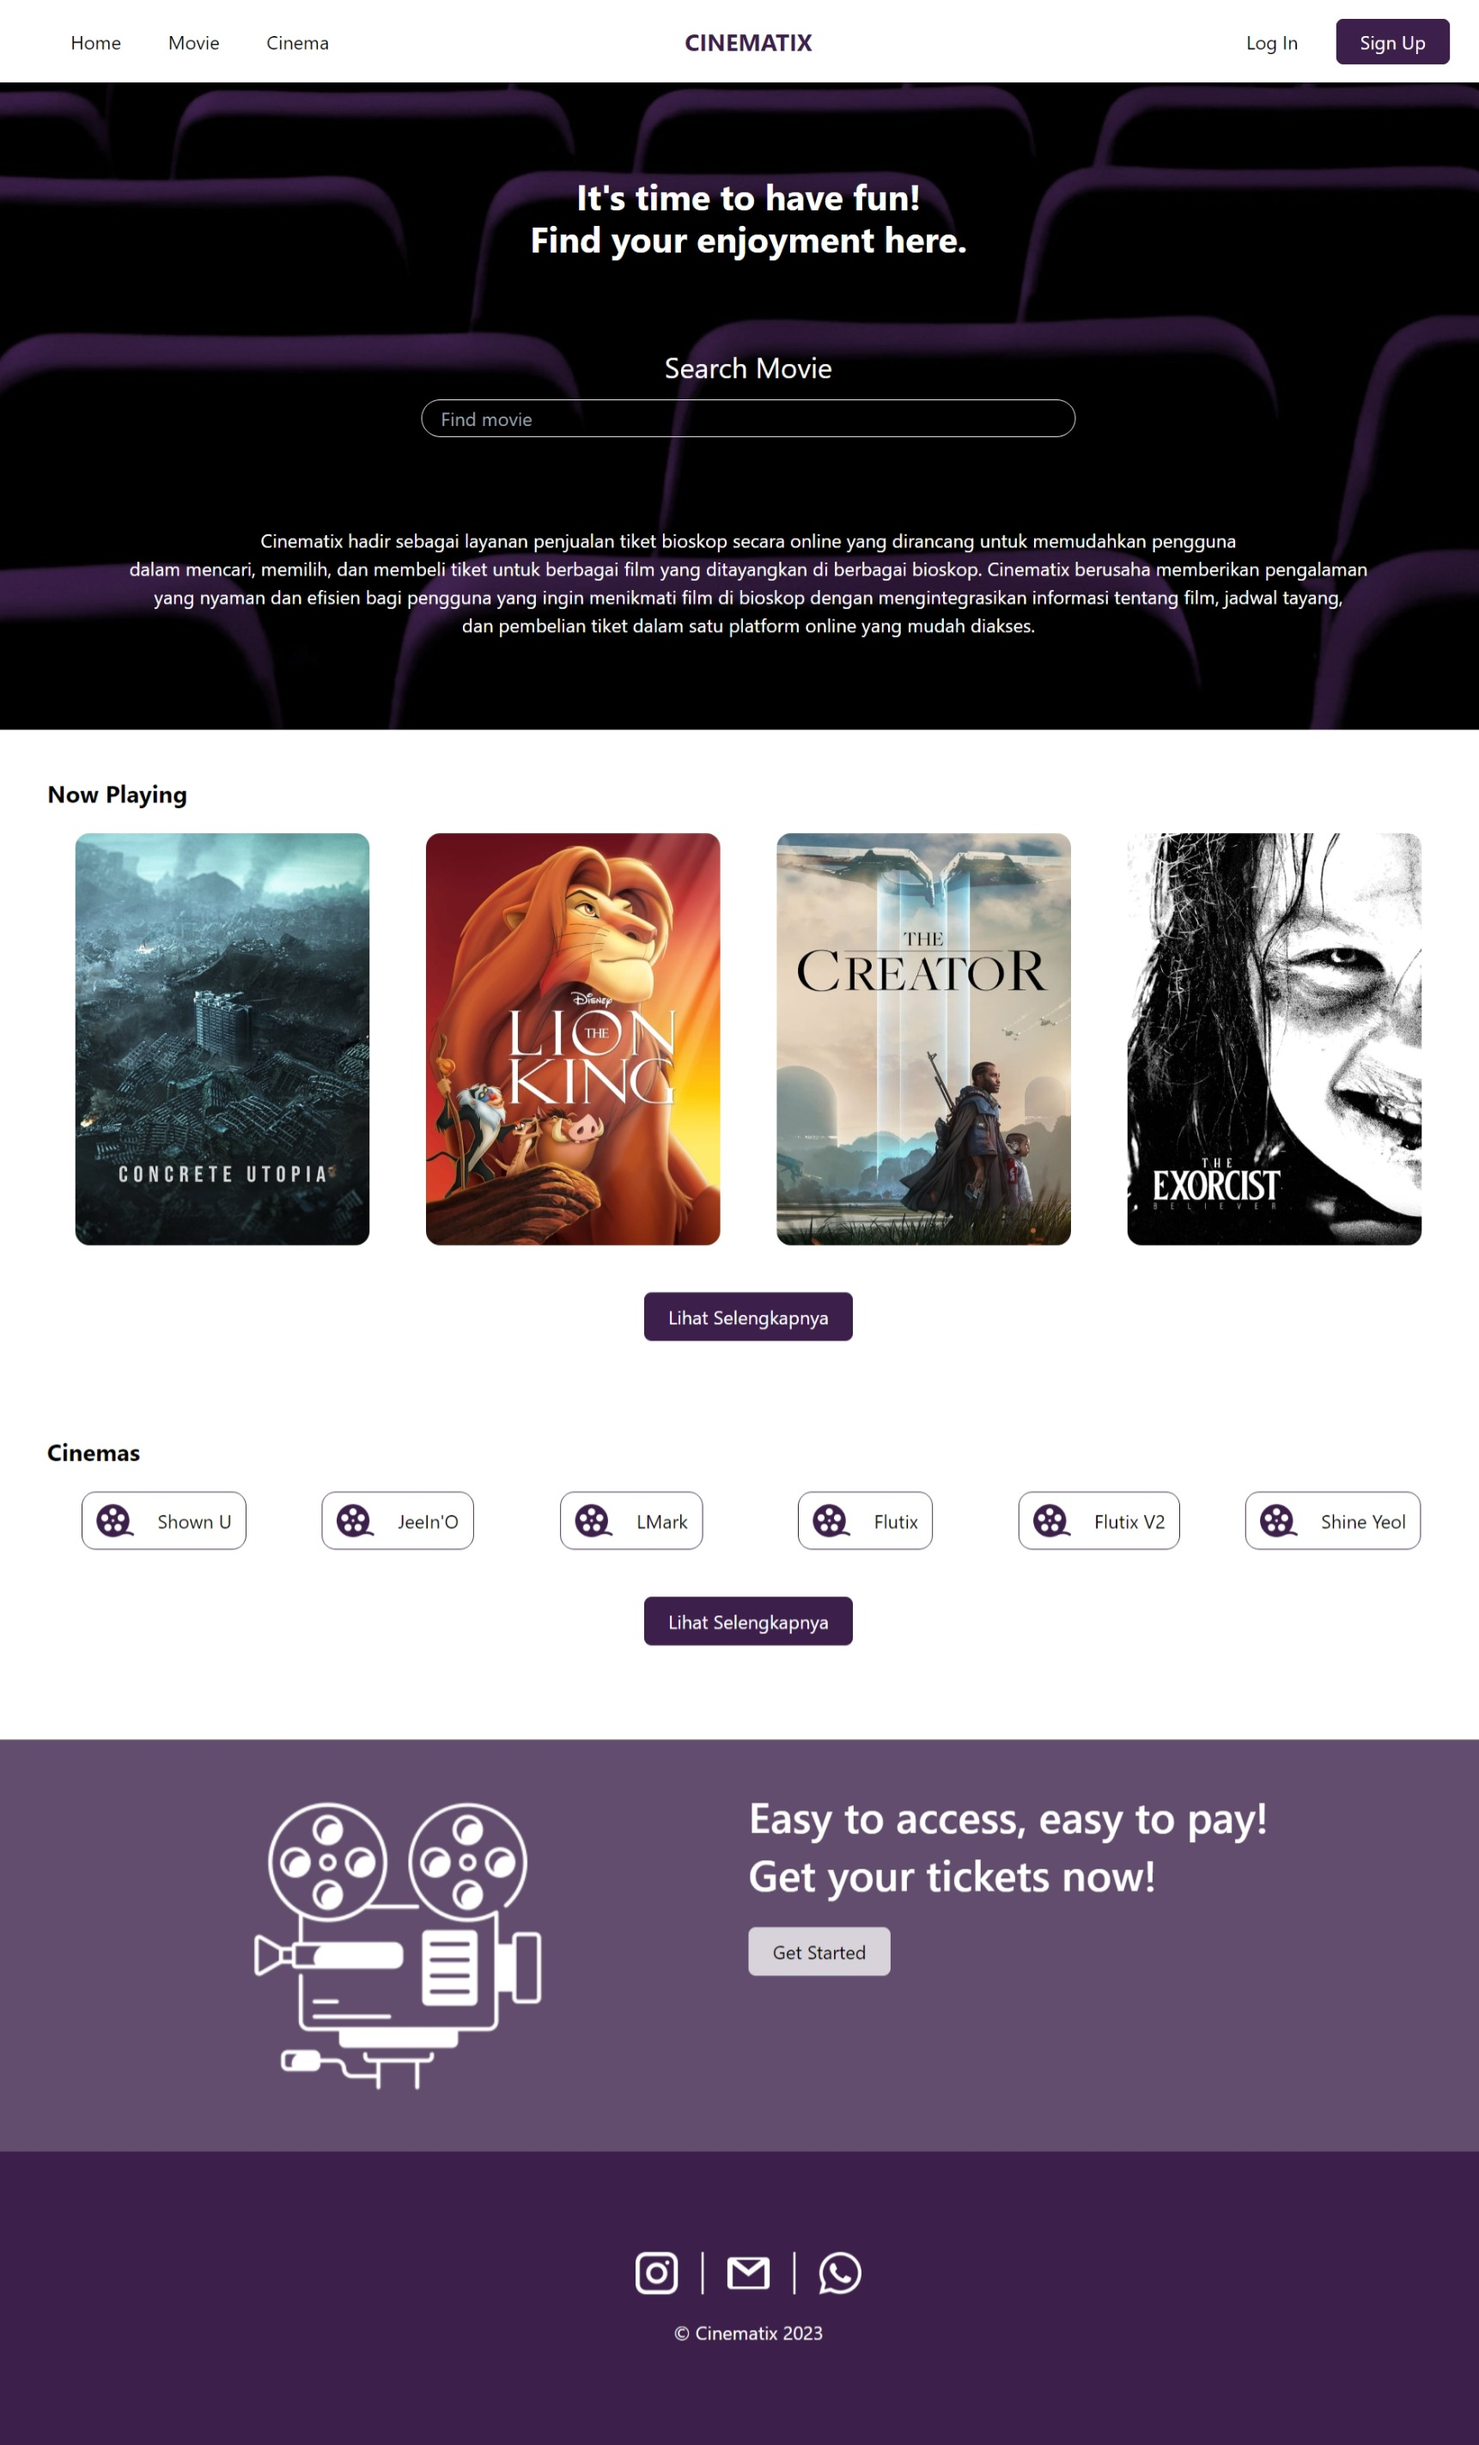
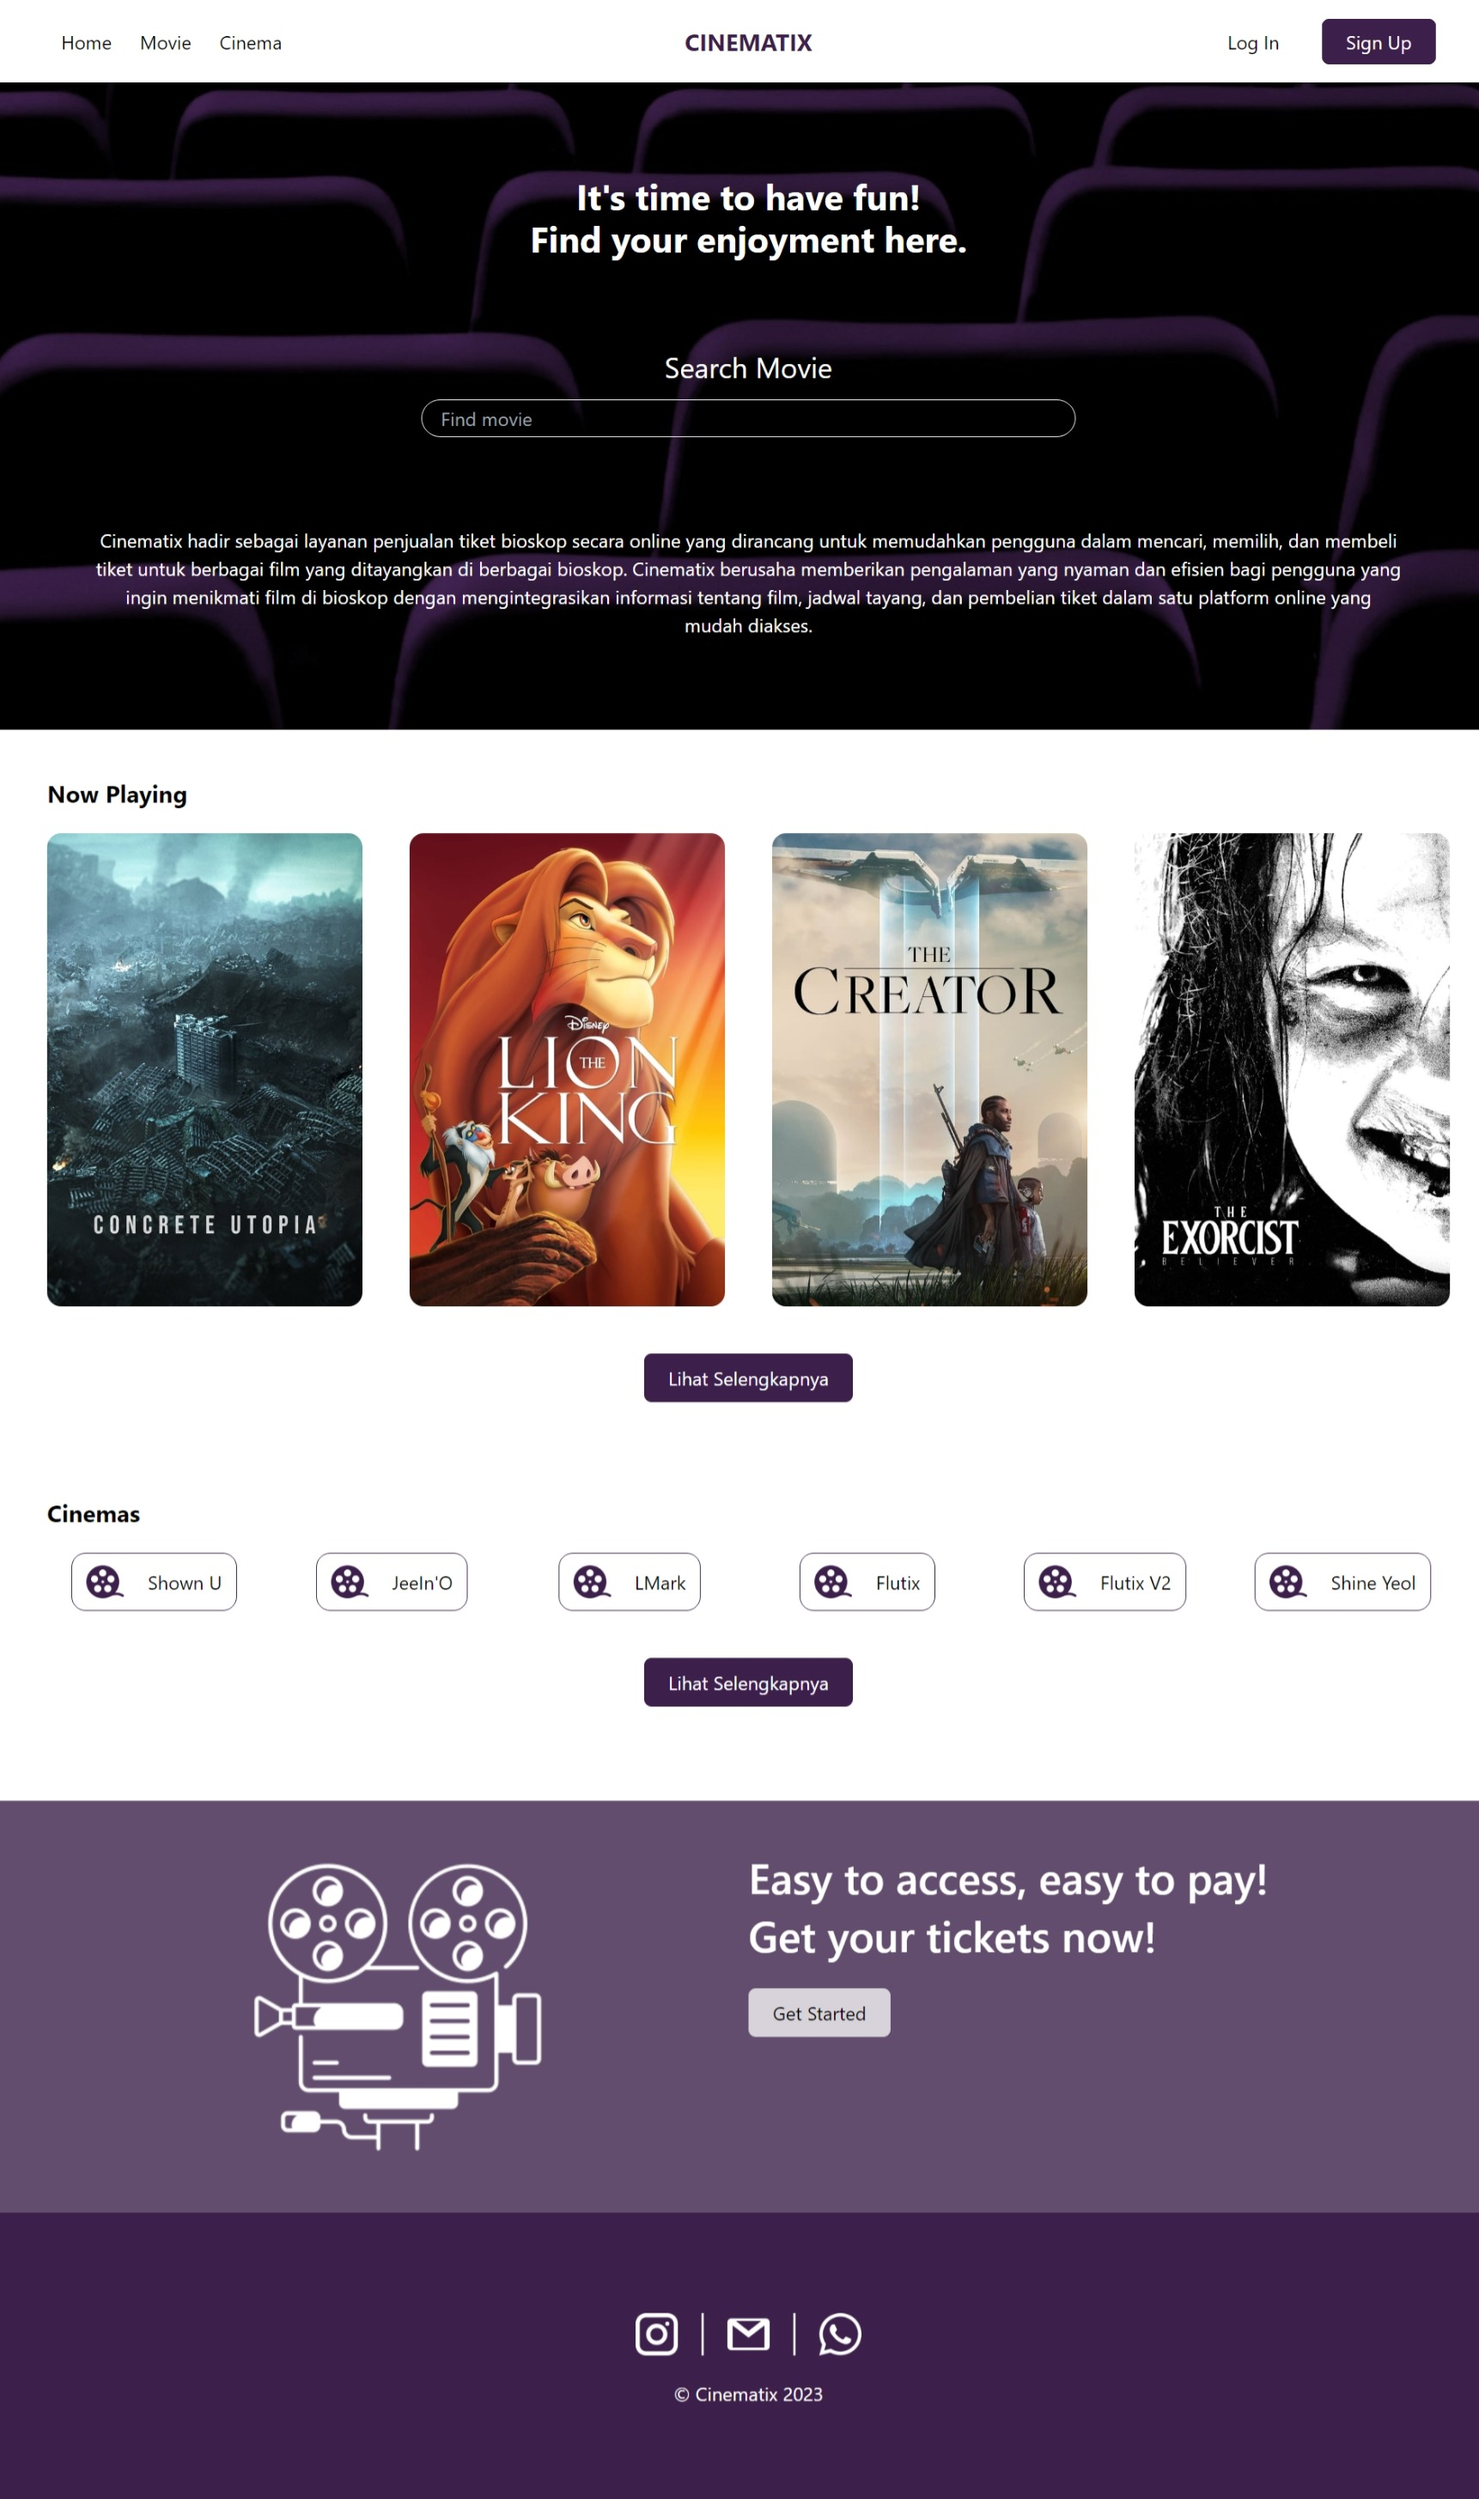
set responsive

diff --git a/resources/views/components/navbar.blade.php b/resources/views/components/navbar.blade.php
@@ -1,19 +1,19 @@
     <nav class="bg-white flex h-[70px] sticky top-0 z-10">
 
-        <ul class="basis-1/4 ps-10 flex items-center">
-            <li class="px-5 py-2 hover:text-tuna hover:font-bold"><a href="#">Home</a></li>
-            <li class="px-5 py-2 hover:text-tuna hover:font-bold"><a href="#">Movie</a></li>
-            <li class="px-5 py-2 hover:text-tuna hover:font-bold"><a href="#">Cinema</a></li>
+        <ul class="lg:w-[25%] sm:w-[40%] ps-10 flex items-center">
+            <li class="px-3 py-2 hover:text-tuna hover:font-bold"><a href="#">Home</a></li>
+            <li class="px-3 py-2 hover:text-tuna hover:font-bold"><a href="#">Movie</a></li>
+            <li class="px-3 py-2 hover:text-tuna hover:font-bold"><a href="#">Cinema</a></li>
         </ul>
 
-        <div class="basis-1/2 flex justify-center items-center col-span-4 text-xl font-bold text-tuna">
+        <div class="lg:w-[50%] sm:w-[20%] flex justify-center items-center col-span-4 text-xl font-bold text-tuna">
             <p><a href="#">CINEMATIX</a></p>
 
         </div>
 
-        <ul class="basis-1/4 pe-10 flex justify-end items-center">
-            <li class="px-5 py-2 hover:text-tuna hover:font-bold"> <a href="#"> Log In </a> </li>
-            <li class="ml-3">
+        <ul class="lg:w-[25%] sm:w-[40%] pe-10 flex justify-end items-center">
+            <li class="px-3 py-2 hover:text-tuna hover:font-bold"> <a href="#"> Log In </a> </li>
+            <li class="px-3 ml-3">
                 @include('components.btn', ['name' => 'Sign Up', 'mode' => 'light'])
             </li>
         </ul>

diff --git a/resources/views/pages/home/banner.blade.php b/resources/views/pages/home/banner.blade.php
@@ -17,11 +17,11 @@
         <div class="grid grid-cols-1 justify-items-center text-center">
             <p>
                 Cinematix hadir sebagai layanan penjualan tiket bioskop secara online yang dirancang untuk
-                memudahkan pengguna <br> dalam mencari, memilih, dan membeli tiket untuk berbagai film yang
-                ditayangkan di berbagai bioskop. Cinematix berusaha memberikan pengalaman <br> yang nyaman dan efisien
+                memudahkan pengguna dalam mencari, memilih, dan membeli tiket untuk berbagai film yang
+                ditayangkan di berbagai bioskop. Cinematix berusaha memberikan pengalaman yang nyaman dan efisien
                 bagi
                 pengguna yang ingin menikmati film di bioskop dengan mengintegrasikan informasi tentang film, jadwal
-                tayang, <br> dan pembelian tiket dalam satu platform online yang mudah diakses.
+                tayang, dan pembelian tiket dalam satu platform online yang mudah diakses.
             </p>
         </div>
 

diff --git a/resources/views/pages/home/now-playing.blade.php b/resources/views/pages/home/now-playing.blade.php
@@ -1,11 +1,10 @@
     <section class="p-10 grid grid-cols-1 gap-5">
         <h2 class="text-xl font-bold"> Now Playing </h2>
 
-        <div class="grid lg:grid-cols-4 md:grid-cols-2 justify-items-center">
+        <div class="grid md:grid-cols-4 sm:grid-cols-2 justify-items-center gap-10">
 
             @for ($i = 1; $i <= 4; $i++)
-                <a href="#"
-                    class=" md:w-[250px] md:h-[350px] sm:w-fit sm:h-[100px] bg-cover shadow-inner relative rounded-xl">
+                <a href="#" class="relative rounded-xl">
 
                     <img src="{{ asset("assets/img/movie-$i.jpg") }}" alt="" class="h-full w-full rounded-xl">
 

diff --git a/resources/views/pages/home/cinemas.blade.php b/resources/views/pages/home/cinemas.blade.php
@@ -1,7 +1,7 @@
     <section class="p-10 grid grid-cols-1 gap-5">
         <h2 class="text-xl font-bold "> Cinemas </h2>
 
-        <div class="grid grid-cols-6 justify-items-center content-center">
+        <div class="grid md:grid-cols-6 sm:grid-cols-3 gap-5 justify-items-center content-center">
             <?php $cinemas = ['Shown U', "JeeIn'O", 'LMark', 'Flutix', 'Flutix V2', 'Shine Yeol']; ?>
 
             @for ($i = 0; $i < 6; $i++)
